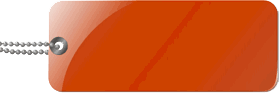
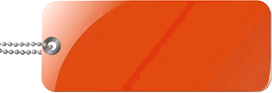
fun with background

diff --git a/tapahtumat3.html b/tapahtumat3.html
@@ -122,7 +122,7 @@
 
   <div class="briefEventListing">
     <span class="eventTitle">
-      <a href="/tapahtumat/438">TiKnik @ Helsinki</a>
+      <a href="/tapahtumat/438">TiKnik vaikeampi otsikko @ Helsinki</a>
     </span><br />
     <span class="eventMeta">
       ke 17.07. klo 12:00
@@ -138,7 +138,7 @@
       <a href="/tapahtumat/418">Varaslähtö @ Kattosauna</a>
     </span><br />
     <span class="eventMeta">
-      pe 19.07.
+      to 17.07.
       
       
         <br /><p>Viimeiset hetket ennen <em>gasp</em> phuksien saapumista!</p>
@@ -151,7 +151,7 @@
       <a href="/tapahtumat/666">Ääkköstesti välilyönnein @ Hölmölän kylä</a>
     </span><br />
     <span class="eventMeta">
-      ke 25.07. klo 01:30
+      ke 17.07. klo 01:30
       
       
         <br /><p>Yllä pitäisi lukea paikka- ja ilmotiedot oikein</p>
@@ -164,7 +164,7 @@
       <a href="/tapahtumat/419">Nuotioilta @ Niemen reuna / Kattosauna</a>
     </span><br />
     <span class="eventMeta">
-      ma 02.09.
+      ma 17.07.
       
       
         <br /><p>Kesän jälkeen on taas kiva nähdä tuttuja</p>
@@ -177,7 +177,7 @@
       <a href="/tapahtumat/420">Aalto party @ Otaniemi</a>
     </span><br />
     <span class="eventMeta">
-      ti 03.09.
+      ti 17.07.
       
       
         <br /><p>Party hard!</p>
@@ -203,7 +203,7 @@
       <a href="/tapahtumat/422">Phuksisitsit @ T-talo</a>
     </span><br />
     <span class="eventMeta">
-      ma 09.09.
+      ma 17.07.
       
       
         <br /><p>Phuksien ekat sitsit :3</p>

diff --git a/style.css b/style.css
@@ -8,10 +8,13 @@
 
 body{
 	font-family: 'Numans';
-	background-color: #111;
+	background-color: #0a0a0a;
 	color: #eee;
     height: 100%;
 	overflow: hidden;
+	background-image:url('bg2.jpg');
+	background-repeat: no-repeat;
+	/*background-size: auto 100%;*/
 }
 
 #main{
@@ -25,7 +28,6 @@ body{
 #eventContainer{
 	font-size: 120%;
 	position: relative;
-	top: -2rem;
 }
 
 .specrow{
@@ -76,14 +78,19 @@ body{
 
 .logo {
 	position: fixed;
-    bottom: 0; 
-    right: 0;
-    width: 25%; 
-    height: 25%;
-	background-size: 100% auto;
+    bottom: -5rem; 
+    right: -5rem;
+    width: 25rem; 
+    height: 25rem;
+	background-size: 100% 100%;
     background-image:url('tiklogo.png');
-    background-repeat: no-repeat;
 }
+
+/*@media all and (min-width: 700px) {
+  .logo {
+    
+  }
+}*/
 
 .bottomdim{
 	position: fixed;
@@ -96,20 +103,24 @@ body{
 }
 
 
-/*.label{
-	text-align: center;
-	width: 12em;
-	height: 3em;
-	border-radius: 4px;
-	border: 0.2em solid #fff;
-}
-
 .today{
-	font-weight: bold;
-	color: #fff;
-	font-family: "Numans";
+	color: #fee;
+	font-family: "Arvo";
+	font-weight: lighter;
+	background-image:url('labl_red.png');
+	padding-left: 1.5em;
+	padding-right: 0.5em;
+	background-size: 100% 100%;
+	text-shadow: 0 0 0.1em #000;
+	display: inline-block;
 
-}*/
+	position: relative;
+	top: 0.5rem;
+	left: -0.3rem;
+	
+	-moz-transform: rotate(8deg);
+    transform: rotate(8deg);
+}
 
 .tomorrow{
 	color: #fff;

diff --git a/screen_client.js b/screen_client.js
@@ -31,7 +31,7 @@ function displayEvents(){
 
 		var desc = '';
 		if(checkWhen(date) !== 'later'){
-			title += ' ('+ checkWhen(date)+')';
+			title += '<div class="today">' + checkWhen(date)+' </div>';
 			var time = 'All day';
 			var descPart = meta.substring(9);
 			if(date.length > 10){
@@ -63,9 +63,6 @@ function wdToEnglish(str){
 				'la' : 'Sat',
 				'su' : 'Sun'};
 
-	// var todayEl = '<div class="today label pure-u"><h2>TODAY</h2></div>';
-	// var tomorrowEl = '<div class="tomorrow label pure-u"><h2>TOMORROW</h2></div>';
-
 	return fiEn[str.substring(0,2)]+' '+str.substring(3);
 
 
@@ -80,11 +77,11 @@ function checkWhen(dateStr){
 
 	// check if date is today
 	if(today.getDate() == dateArr[0] && (today.getMonth()+1) == dateArr[1]){
-		return "today";
+		return "TODAY";
 	}
 	// or tomorrow
 	else if(tomorrow.getDate() == dateArr[0] && (tomorrow.getMonth()+1) == dateArr[1]){
-		return "tomorrow";
+		return "TOMORROW";
 	}
 	else{
 		return 'later';
@@ -141,7 +138,7 @@ function loadClock(el){
 
 $(document).ready(function(){
 
-	var selector = './tapahtumat3.html #pageWrapper';
+	var selector = './tapahtumat.html #pageWrapper';
 
 	loadDummy(selector);
 	loadClock($('.clock'));
